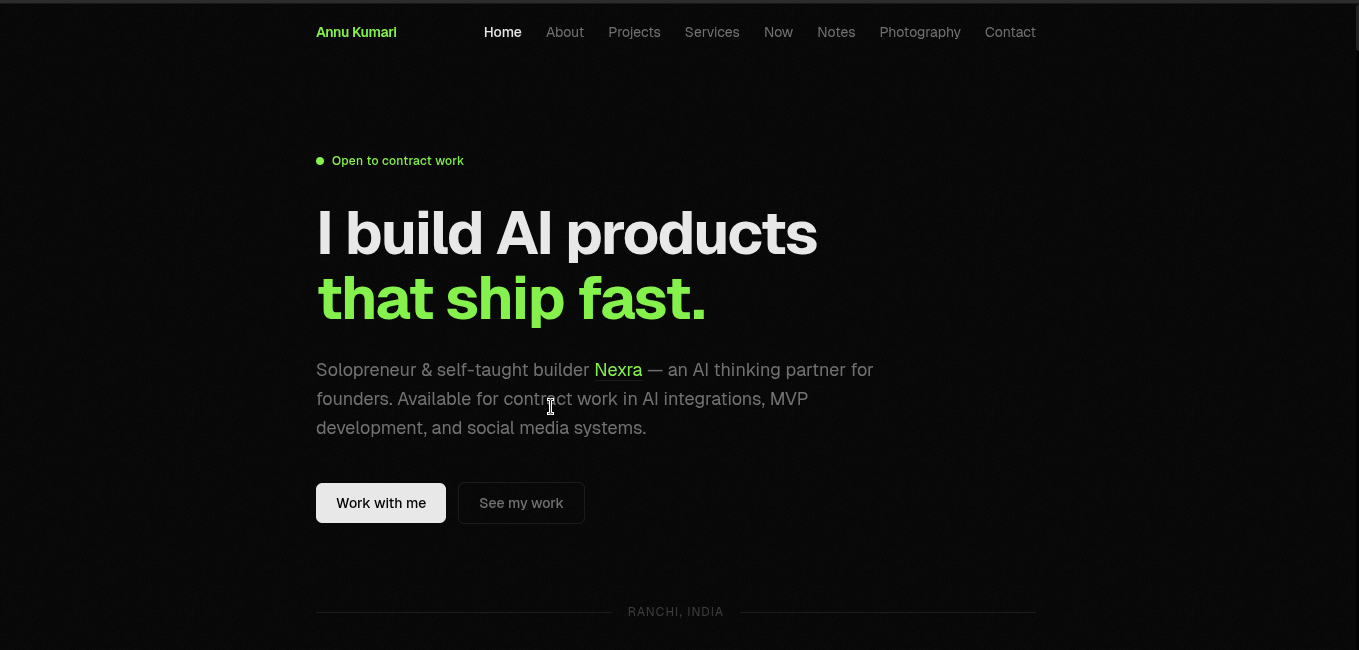
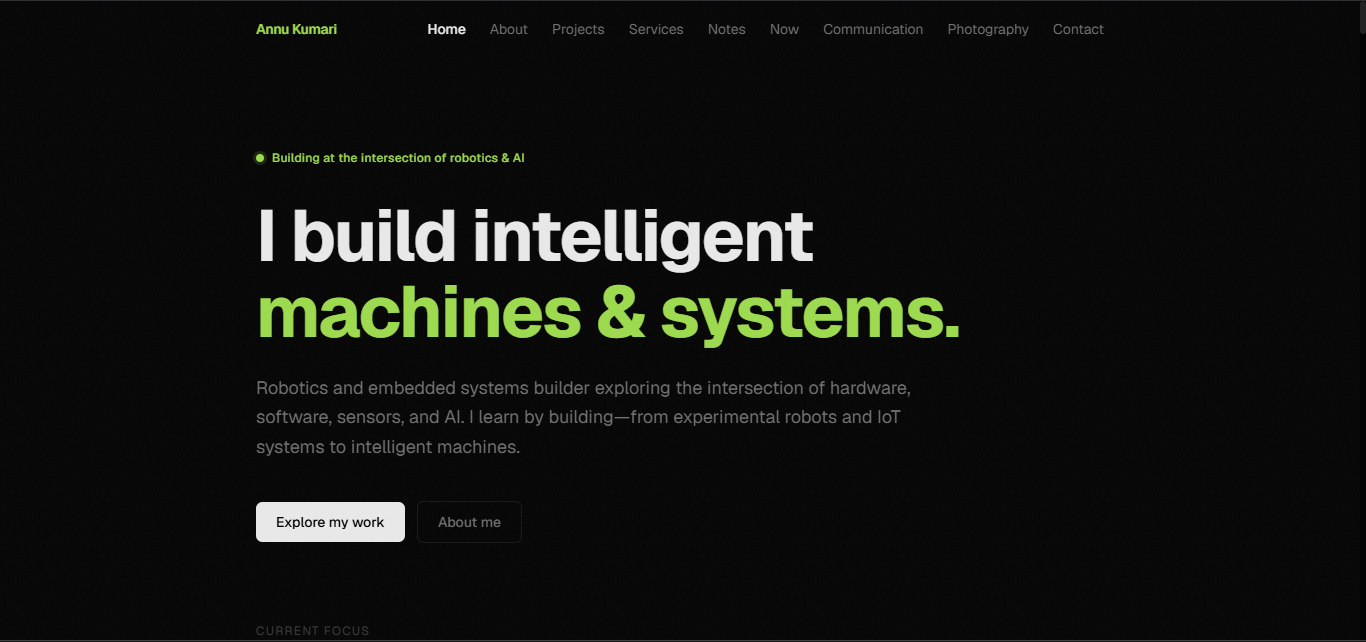
update og image

diff --git a/app/layout.tsx b/app/layout.tsx
@@ -1,25 +1,32 @@
 import type { Metadata } from "next";
+
 import "./globals.css";
+
 import { ClerkProvider } from "@clerk/nextjs";
+
 import { ConvexClientProvider } from "@/components/ConvexClient/ConvexClientProvider";
+
 import { Analytics } from "@vercel/analytics/next";
+
 import "highlight.js/styles/github-dark.css";
+
 import { Geist } from "next/font/google";
+
 import { cn } from "@/lib/utils";
+
 import Navbar from "@/components/layout/Navbar";
+
 import Footer from "@/components/layout/Footer";
 
-const geist = Geist({ subsets: ["latin"], variable: "--font-sans" });
-
-// export const metadata: Metadata = {
-//   title: "Annu Kumari",
-//   description: "Solopreneur building AI products. Available for contract work.",
-// };
+const geist = Geist({
+  subsets: ["latin"],
+  variable: "--font-sans",
+});
 
 export const metadata: Metadata = {
-  title: "Annu Kumari - AI Product Builder",
+  title: "Annu Kumari — Robotics, Embedded Systems & AI",
   description:
-    "Solopreneur building AI products. Available for contract work. Fast, focused, and no bloat.",
+    "Robotics and embedded systems builder exploring the intersection of hardware, software, IoT, and AI. Building intelligent machines and systems through hands-on projects.",
 
   icons: {
     icon: "/icon.png",
@@ -28,8 +35,9 @@ export const metadata: Metadata = {
   },
 
   openGraph: {
-    title: "Annu Kumari - AI Product Builder",
-    description: "Solopreneur building AI products. Available for contract work.",
+    title: "Annu Kumari — Robotics, Embedded Systems & AI",
+    description:
+      "Robotics and embedded systems builder exploring the intersection of hardware, software, IoT, and AI.",
     url: "https://annu-kumari.nexralab.com",
     siteName: "Annu Kumari",
     images: [
@@ -37,7 +45,7 @@ export const metadata: Metadata = {
         url: "/annu.png",
         width: 1200,
         height: 630,
-        alt: "Annu Kumari",
+        alt: "Annu Kumari — Robotics, Embedded Systems & AI",
       },
     ],
     type: "website",
@@ -45,8 +53,9 @@ export const metadata: Metadata = {
 
   twitter: {
     card: "summary_large_image",
-    title: "Annu Kumari - AI Product Builder",
-    description: "Solopreneur building AI products. Available for contract work.",
+    title: "Annu Kumari — Robotics, Embedded Systems & AI",
+    description:
+      "Robotics and embedded systems builder exploring the intersection of hardware, software, IoT, and AI.",
     images: ["/annu.png"],
   },
 };
